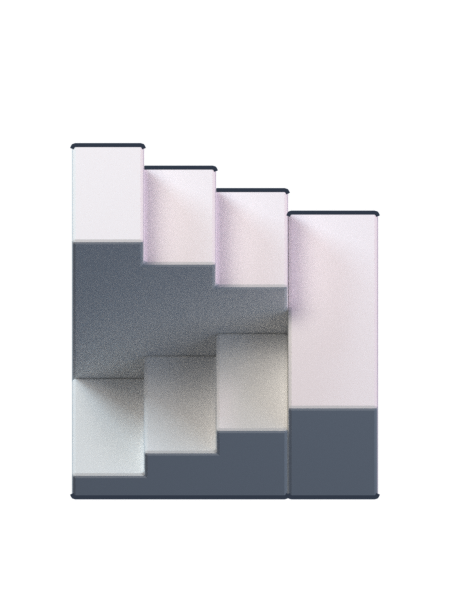
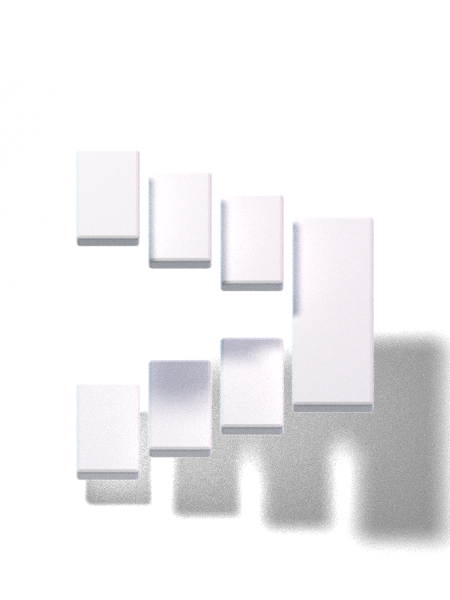
feat: draw sprite stairs as magically floating plates
Each step and landing is now a thin marble plate floating in place with
nothing beneath it. The way up casts crisp plate shadows on the floor
(through a shadow catcher, with only a small key light casting shadows),
so the plates read as hovering at rising heights. The way down has no
walls inside its opening; past the plates there is only darkness.

diff --git a/dev-samples/3d-stage1/build-stairs.py b/dev-samples/3d-stage1/build-stairs.py
@@ -2,21 +2,20 @@
 
 Run with: blender --background --threads 4 --python dev-samples/3d-stage1/build-stairs.py
 
-Each stair is a short flight turning back at a landing, seen from the front,
-rendered with the
-walls' 60-degree orthographic camera. The canvas covers one
-15 x 20 px cell, 0.25 cells past each side (drawn by the GUI only over
-explored floor) and the 0.5-cell band north of it (sprite_funcs.TERRAIN_SIDE,
-TERRAIN_OVERHANG):
-  stairs-up.png    steps rising from left to right on the floor, turning back
-                   at a landing and rising on to the left behind
+Each stair is a short flight of thin plates floating in place by magic,
+turning back at a landing, seen from the front with the walls' 60-degree
+orthographic camera. The canvas covers one 15 x 20 px cell, 0.25 cells past
+each side (drawn by the GUI only over explored floor) and the 0.5-cell band
+north of it (sprite_funcs.TERRAIN_SIDE, TERRAIN_OVERHANG):
+  stairs-up.png    plates rising from left to right above the floor, turning
+                   back at a landing and rising on to the left behind, with
+                   their shadows on the floor
   stairs-down.png  the same going down into a dark opening
 The stone is near-white; the GUI tints it gold, darker outside the view.
 """
 from pathlib import Path
 import math
 
-import bmesh
 import bpy
 from mathutils import Vector
 
@@ -43,6 +42,9 @@ DEPTH = CELL_UP / math.sin(ELEVATION)
 # up even at the top (DOWN_BRIGHT) and fades to near black at the bottom
 # (DOWN_DARK).
 FLIGHT_STEPS, STEP_RUN, FLIGHT_DEPTH, LANDING = 3, 0.24, 0.38, 0.3
+# Each step is a thin plate floating in place by magic, this thick, with
+# this gap to its neighbours.
+PLATE_THICKNESS, PLATE_GAP = 0.06, 0.03
 UP_RISE = 0.15
 DOWN_RISE, DOWN_GAP, DOWN_BRIGHT, DOWN_DARK = 0.1, 0.2, 0.6, 0.06
 KERB_COLOR = (0.12, 0.13, 0.24)
@@ -128,30 +130,6 @@ def box(name, x0, x1, y0, y1, z0, z1, mat, bevel=0.012):
     return obj
 
 
-def flight(name, x0, run, heights, y0, y1, mat, base=0):
-    """One solid stepped block: the steps' profile above z = base, extruded from y0 to y1."""
-    profile = [(x0, base)]
-    for i, h in enumerate(heights):
-        profile += [(x0 + i * run, h), (x0 + (i + 1) * run, h)]
-    profile.append((x0 + len(heights) * run, base))
-    bm = bmesh.new()
-    front = bm.faces.new([bm.verts.new((x, y0, z)) for x, z in profile])
-    extruded = bmesh.ops.extrude_face_region(bm, geom=[front])
-    bmesh.ops.translate(bm, vec=(0, y1 - y0, 0),
-                        verts=[v for v in extruded['geom'] if isinstance(v, bmesh.types.BMVert)])
-    bmesh.ops.recalc_face_normals(bm, faces=bm.faces)
-    mesh = bpy.data.meshes.new(name)
-    bm.to_mesh(mesh)
-    bm.free()
-    obj = bpy.data.objects.new(name, mesh)
-    bpy.context.scene.collection.objects.link(obj)
-    obj.data.materials.append(mat)
-    mod = obj.modifiers.new('Soft edges', 'BEVEL')
-    mod.width = 0.012
-    mod.segments = 2
-    return obj
-
-
 CENTRE_Y = DEPTH / 2
 bpy.ops.wm.read_factory_settings(use_empty=True)
 scene = bpy.context.scene
@@ -170,7 +148,6 @@ world.node_tree.nodes['Background'].inputs['Color'].default_value = (0.05, 0.06,
 scene.world = world
 
 marble = material('Marble', (0.92, 0.91, 0.88), rim_strength=0.25)
-shadowed = material('Shadowed marble', (0.30, 0.30, 0.30), roughness=0.9)
 void = material('Void', (0.0, 0.0, 0.0), roughness=1.0)
 ground = holdout('Ground')
 parts = {'up': [], 'down': []}
@@ -180,31 +157,44 @@ x1 = x0 + FLIGHT_STEPS * STEP_RUN
 x2 = x1 + LANDING
 
 
-def switchback(name, rise, first, second, mat, base=0):
-    """A flight from left to right over the y range `first` (treads at rise,
-    2 rise, ...), a landing across both ranges, and a flight back to the left
-    over `second`, each tread one rise further from the floor; rise < 0 goes
-    down. The solids reach down (or up) to z = base."""
+def switchback(name, rise, first, second, mat):
+    """Floating plates: a flight from left to right over the y range `first`
+    (treads at rise, 2 rise, ...), a landing across both ranges, and a flight
+    back to the left over `second`, each tread one rise further from the
+    floor; rise < 0 goes down. Nothing holds them up."""
     n = FLIGHT_STEPS
     treads = [(i + 1) * rise for i in range(n)], [(2 * n + 1 - i) * rise for i in range(n)]
     ys = sorted(first + second)
-    low, high = sorted((base, (n + 1) * rise))
-    return [flight(name + ' first flight', x0, STEP_RUN, treads[0], *first, mat, base),
-            box(name + ' landing', x1, x2, ys[0], ys[-1], low, high, mat),
-            flight(name + ' second flight', x0, STEP_RUN, treads[1], *second, mat, base)]
+    gap = PLATE_GAP / 2
+
+    def plate(label, px0, px1, py0, py1, z):
+        return box(name + ' ' + label, px0 + gap, px1 - gap, py0 + gap, py1 - gap,
+                   z - PLATE_THICKNESS, z, mat)
+
+    plates = [plate('landing', x1, x2, ys[0], ys[-1], (n + 1) * rise)]
+    for flight_ys, heights in zip((first, second), treads):
+        for i, z in enumerate(heights):
+            plates.append(plate('plate', x0 + i * STEP_RUN, x0 + (i + 1) * STEP_RUN,
+                                *sorted(flight_ys), z))
+    return plates
 
 
-# Up: solid flights on the floor, so their fronts show the stepped profile
-# without lines between steps. The front one rises to the right, to a landing
-# as deep as both flights; the back one rises from there to the left, above
-# the front one. (The first flight is the front one here.)
+# Up: the front flight rises to the right, to a landing as deep as both
+# flights; the back one rises from there to the left, above the front one.
+# (The first flight is the front one here.)
 y0, y1, y2 = CENTRE_Y - FLIGHT_DEPTH, CENTRE_Y, CENTRE_Y + FLIGHT_DEPTH
 parts['up'] += switchback('Up', UP_RISE, (y0, y1), (y1, y2), marble)
+# The floor itself is not drawn, but it catches the plates' shadows, so they
+# read as floating above it.
+floor = box('Shadow floor', -3, 3, -3, 6, -0.02, 0, marble, bevel=0)
+floor.is_shadow_catcher = True
+parts['up'].append(floor)
 
-# Down: a low kerb rings a rectangular opening; inside, solid flights go down
-# from left to right along the back, turn at the landing and go on down to
-# the left in front, darker the deeper they go, above a black drop; a gap in
-# front of them lets the front flight show. An invisible holdout ground hides the opening's sides from outside.
+# Down: a low kerb rings a rectangular opening with no walls inside: the
+# plates float down from left to right along the back, turn at the landing
+# and go on down to the left in front, darker the deeper they go, and past
+# them the opening shows only a black drop; a gap in front of them lets the
+# front flight show. An invisible holdout ground hides the opening's sides from outside.
 # The kerb is a cool grey that the GUI's gold tint turns close to the
 # floor's warm grey.
 kerb = 0.07
@@ -223,19 +213,20 @@ for name, bx0, bx1, by0, by1 in (('Ground south', -3, 3, -3, y0 - kerb),
 parts['down'].append(box('Abyss', -3, 3, -3, 6, -3.1, -3, void, bevel=0))
 parts['down'] += switchback('Down', -DOWN_RISE, (CENTRE_Y, y1),
                             (CENTRE_Y - FLIGHT_DEPTH, CENTRE_Y),
-                            deepening('Deepening marble', (2 * FLIGHT_STEPS + 1) * DOWN_RISE),
-                            base=-3)
-parts['down'].append(box('Back wall', x0, x2, y1 - 0.02, y1, -3, 0, shadowed, bevel=0))
+                            deepening('Deepening marble', (2 * FLIGHT_STEPS + 1) * DOWN_RISE))
 
 # The key light is above and slightly behind the cell, unlike the walls', so
-# the treads are bright and the risers facing the camera read darker.
-for pos, power, size, color in [((-3, 3, 9), 420, 5, (1.0, 0.93, 0.85)),
+# the treads are bright and the risers facing the camera read darker. Only
+# the key light, kept small, casts shadows, so the floating plates' shadows
+# on the floor stay crisp.
+for pos, power, size, color in [((-3, 3, 9), 420, 1.5, (1.0, 0.93, 0.85)),
                                  ((6, -3, 4), 120, 6, (0.6, 0.75, 1.0)),
                                  ((-6, 6, 4), 300, 3, (0.55, 0.8, 1.0)),
                                  ((6, 6, 4), 300, 3, (1.0, 0.7, 0.9))]:
     bpy.ops.object.light_add(type='AREA', location=pos)
     light = bpy.context.object
     light.data.energy, light.data.size, light.data.color = power, size, color
+    light.data.cycles.cast_shadow = pos == (-3, 3, 9)
     light.rotation_euler = (Vector((0, 0, 0)) - light.location).to_track_quat('-Z', 'Y').to_euler()
 
 # Frame the canvas from the cell's south edge on the ground (image-plane

diff --git a/dev-samples/3d-stage1/README.md b/dev-samples/3d-stage1/README.md
@@ -41,14 +41,14 @@ blender --background --threads 4 --python dev-samples/3d-stage1/build-floor.py
 
 `src/arlq/assets/floor/floor-a.png` と `floor-b.png` を出力する。
 
-階段（`^` と `v`）は、黄色の文字の代わりに、踊り場で折り返す大理石の階段を正面から見た形で描く。丸い落とし穴と見分けやすいよう、まっすぐな段にしている。段はマスより大きく、隣のマスにはみ出して描く。`build-stairs.py` は、1マスに左右0.25マスずつと北への0.5マスの張り出しを加えた範囲（マスは幅15・高さ20ピクセルの比率で、450×600ピクセル）で2枚を書き出す。GUIはこれを敷石の上に重ね（`sprite_funcs.py` の `TERRAIN_SIDE`、`TERRAIN_OVERHANG`）、左右のはみ出しは、隣のマスが探索済みの普通の床のときだけ描く。壁・階段・崩落・未探索などのマスの側は、画像を切り取って描かない（未探索のマスに描くと床だと分かってしまうため）。カメラは壁と同じ60度の見下ろしの平行投影。
+階段（`^` と `v`）は、黄色の文字の代わりに、魔法の力でその場に浮いている大理石の薄い板が、踊り場で折り返す階段の形に並んだものを正面から見た形で描く。丸い落とし穴と見分けやすいよう、まっすぐな段にしている。段はマスより大きく、隣のマスにはみ出して描く。`build-stairs.py` は、1マスに左右0.25マスずつと北への0.5マスの張り出しを加えた範囲（マスは幅15・高さ20ピクセルの比率で、450×600ピクセル）で2枚を書き出す。GUIはこれを敷石の上に重ね（`sprite_funcs.py` の `TERRAIN_SIDE`、`TERRAIN_OVERHANG`）、左右のはみ出しは、隣のマスが探索済みの普通の床のときだけ描く。壁・階段・崩落・未探索などのマスの側は、画像を切り取って描かない（未探索のマスに描くと床だと分かってしまうため）。カメラは壁と同じ60度の見下ろしの平行投影。
 
-上りも下りも、左から右への3段・右端の踊り場・右から左への3段の折り返しで、1段の幅・段の奥行き・踊り場の幅は共通（`FLIGHT_STEPS`、`STEP_RUN`、`FLIGHT_DEPTH`、`LANDING`）。`switchback()` が、段の輪郭を押し出したひとつながりの立体（`flight()`。段と段の間に輪郭線が出ない）2本と踊り場を作る。
+上りも下りも、左から右への3枚・右端の踊り場・右から左への3枚の折り返しで、1段の幅・段の奥行き・踊り場の幅は共通（`FLIGHT_STEPS`、`STEP_RUN`、`FLIGHT_DEPTH`、`LANDING`）。板は支えのない薄い板で、隣の板との間に少しすき間を空ける（`switchback()`、`PLATE_THICKNESS`、`PLATE_GAP`）。
 
-- `stairs-up.png`: 床の上の階段。手前の段を左から右へ上り、踊り場で折り返して、奥の段を右から左へさらに上る（`UP_RISE`）。奥の段が手前の段の上に重なって見える。壁の柱と同じ層に描く
-- `stairs-down.png`: 縁石で囲んだ四角い開口部の中の階段。奥の段を左から右へ下り、踊り場で折り返して、手前の段を右から左へさらに深く下りる（`DOWN_RISE`）。手前の段が開口部の縁に隠れないよう、開口部の手前の縁だけを少し手前に広げる（`DOWN_GAP`）。石は最上段から上り階段より暗く、深いほど暗くなって底はほぼ黒になる（`deepening()`、`DOWN_BRIGHT`、`DOWN_DARK`）。地面の下全体に真っ黒な底を敷き、穴の外の地面はホールドアウトの透明な板で隠す。縁石は青みのある灰色で書き出し、GUIの金色の着色で床に近い暖かい灰色になるようにする（`KERB_COLOR`）
+- `stairs-up.png`: 床の上に浮いた階段。手前の板を左から右へ上り、踊り場で折り返して、奥の板を右から左へさらに上る（`UP_RISE`）。床そのものは描かないが、板の影だけを写す見えない床（Cyclesのシャドウキャッチャー）を置き、床に落ちた影で浮いていることと高さの違いを示す。壁の柱と同じ層に描く
+- `stairs-down.png`: 縁石で囲んだ四角い開口部の中に浮いた階段。開口部の内側に壁はなく、板の向こうは闇になっている。奥の板を左から右へ下り、踊り場で折り返して、手前の板を右から左へさらに深く下りる（`DOWN_RISE`）。手前の板が開口部の縁に隠れないよう、開口部の手前の縁だけを少し手前に広げる（`DOWN_GAP`）。石は最上段から上り階段より暗く、深いほど暗くなって底はほぼ黒になる（`deepening()`、`DOWN_BRIGHT`、`DOWN_DARK`）。地面の下全体に真っ黒な底を敷き、穴の外の地面はホールドアウトの透明な板で隠す。縁石は青みのある灰色で書き出し、GUIの金色の着色で床に近い暖かい灰色になるようにする（`KERB_COLOR`）
 
-照明は壁と違い、主光源を真上やや奥に置いて、踏み面を明るく、手前を向く面を暗くして段を読みやすくする。画像はほぼ白で書き出し、GUIが元の黄色の文字に合わせて金色（`TERRAIN_TINT`）に着色し、視界外の探索済みでは `TERRAIN_EXPLORED_SHADE` で暗くする。画像がない場合は従来どおり黄色の文字で描く。
+照明は壁と違い、主光源を真上やや奥に置いて、踏み面を明るく、手前を向く面を暗くして段を読みやすくする。床の影がぼやけないよう、影を落とすのは小さくした主光源だけにする。画像はほぼ白で書き出し、GUIが元の黄色の文字に合わせて金色（`TERRAIN_TINT`）に着色し、視界外の探索済みでは `TERRAIN_EXPLORED_SHADE` で暗くする。画像がない場合は従来どおり黄色の文字で描く。
 
 ```bash
 blender --background --threads 4 --python dev-samples/3d-stage1/build-stairs.py
